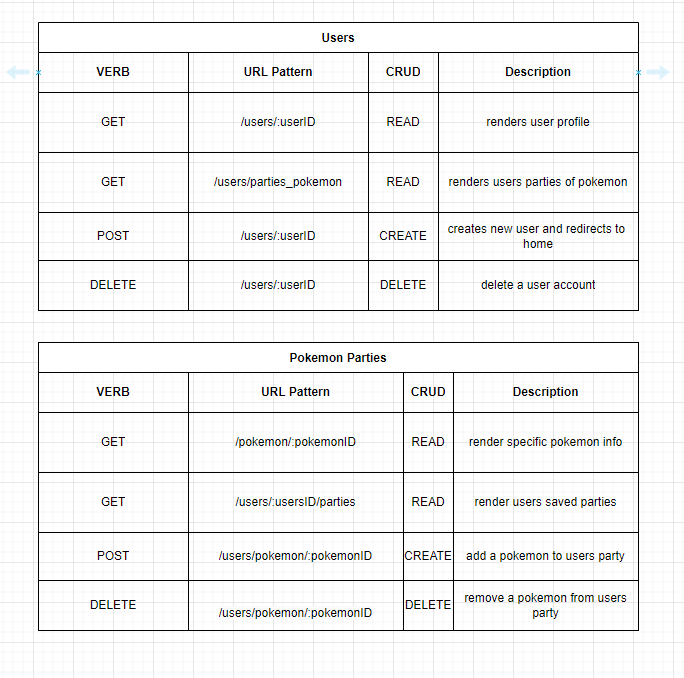
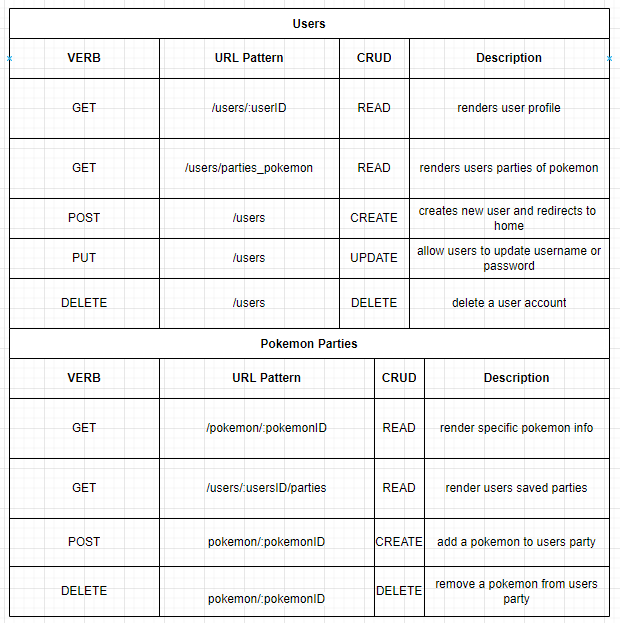
readme complete

Changed region(s): [[0.0, 0.0305, 1.0, 0.9759], [0.9806, 0.2745, 1.0, 0.305]]

diff --git a/index.js b/index.js
@@ -17,6 +17,6 @@ app.get('/pokemon', (req, res) => {
 
 
 // listeners AT BOTTOM
-app.listen(8000, (req,res) => {
+app.listen(PORT, (req,res) => {
     // console.log(`listening on : ${PORT}`)
 })

diff --git a/README.md b/README.md
@@ -19,10 +19,18 @@
 
 ![wireframe](./images/project-2-wireframe.PNG)
 
+## User stories
+* Users will make an account with a username and password
+* Users will be able to look up certain pokemon to see the type
+* Users will be able to see if the Pokemon belongs to other users parties
+* Users will be able to add/remove Pokemon from their party
+
+
+
 ## MVP
 * able to search through the original 151 to craft a team
-* search by type, and pokemon in users squads
-* add and delete from your squad
+* search by type, and pokemon in users party
+* add and delete from your party
 
 ## STRETCH (LOL)
 * Attaching pictures and styles
